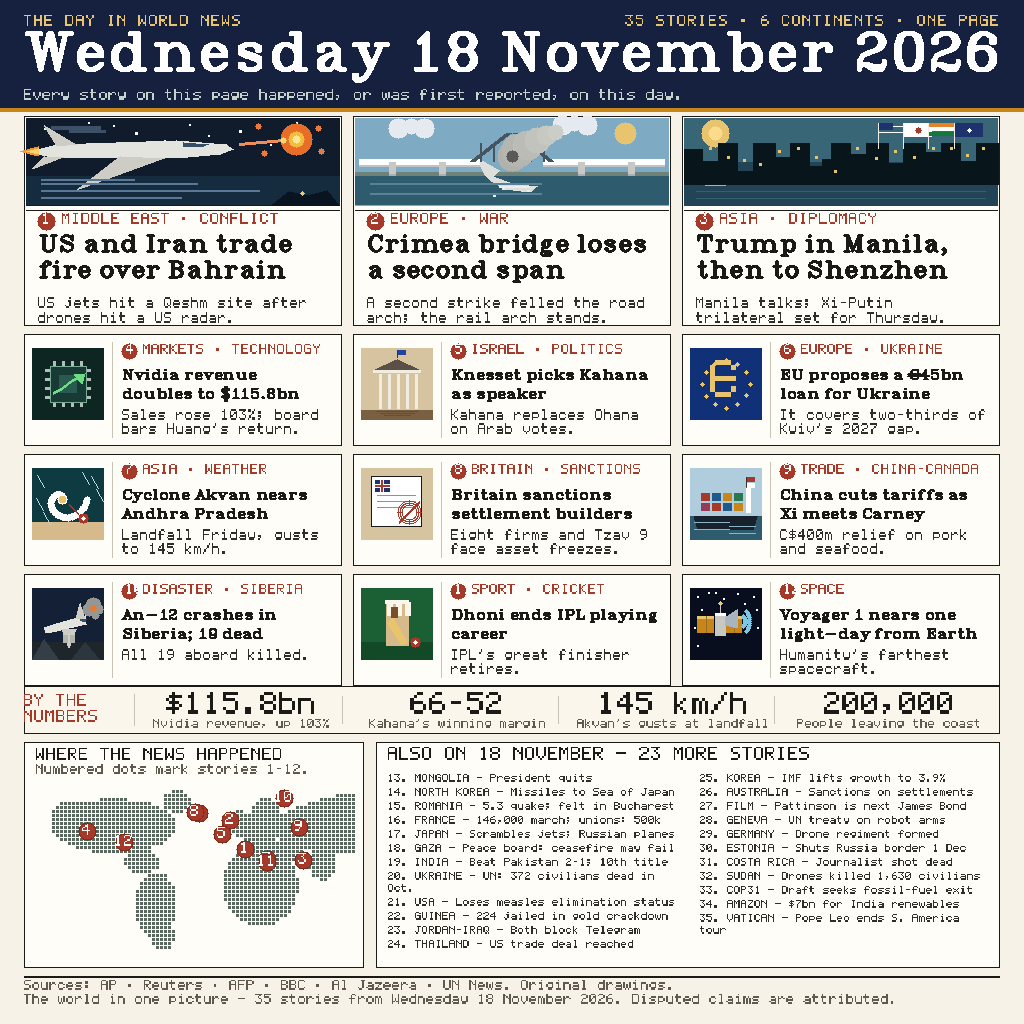
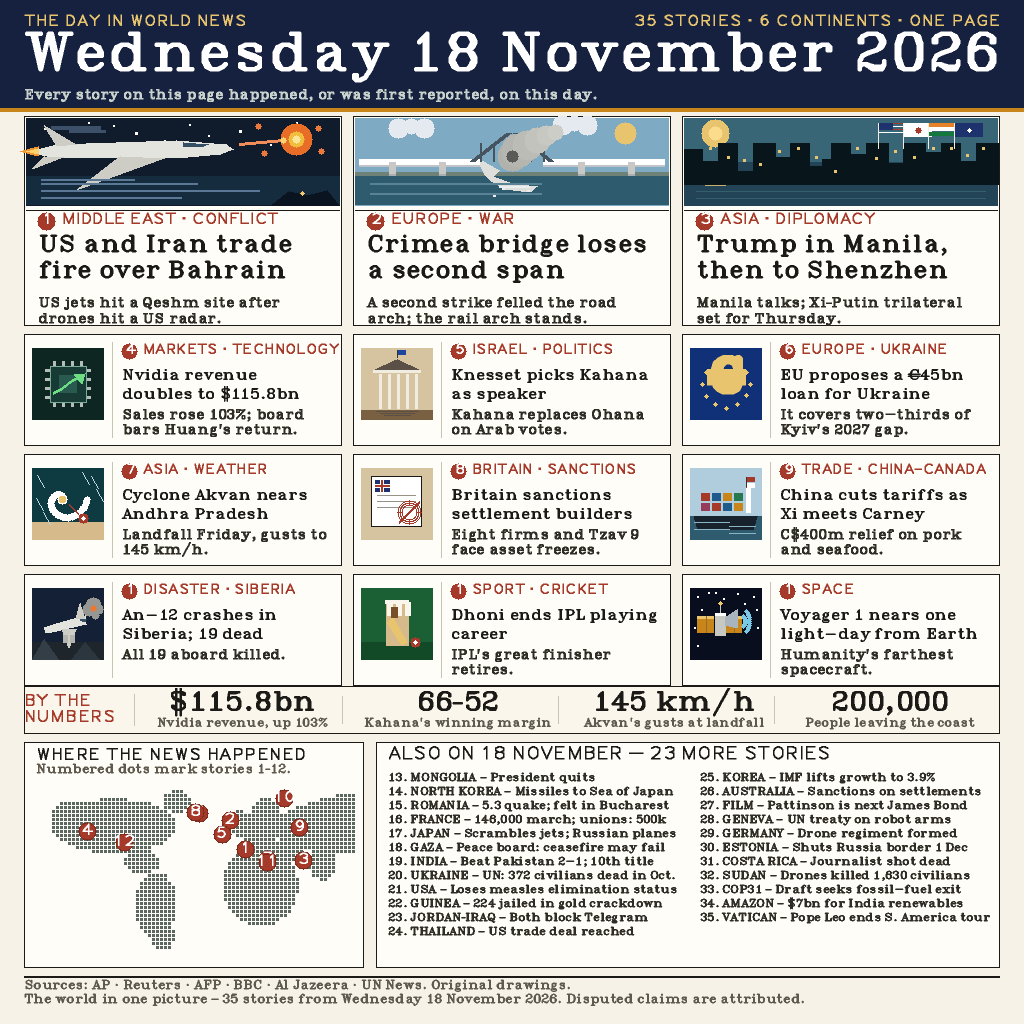
news-image-20261118: neat poster rebuild to reference standard
All text now uses the smooth Hershey vector fonts (no more 5x7 bitmap
anywhere): Complex Roman serif for body/ALSO/footer/captions/figures,
Simplex sans for all-caps kickers/labels/numbers. Proper box-filter
anti-aliasing (coverage = tot//(SS*SS)) so strokes have smooth grey
edges instead of hard binary edges. Body bumped to cap 11, ALSO to cap 9.
Facts, layout, art and palette unchanged; stdlib-only, deterministic.

diff --git a/main.py b/main.py
@@ -561,7 +561,7 @@ class VecFont:
                     row0 = (yy * SS + dy) * sw + xx * SS
                     tot += buf[row0] + buf[row0 + 1]
                 if tot:
-                    runs.append((xx, yy, min(255, tot * 64)))
+                    runs.append((xx, yy, tot // (SS * SS)))
         out = (W, H, -1, int(round(ytop)) - 1, runs, (r - l) * scale)
         self.cache[key] = out
         return out
@@ -743,8 +743,8 @@ def draw_pin(cv, px, py, n):
     cv.circle(px, py, 9, BRICK)
     cv.circle(px, py, 9, BRICK_DK, filled=False)
     s = str(n)
-    w = SERIF.text_w(s, 11, 1.5)
-    draw_text(cv, px - w / 2, py + 4, s, 11, WHITE, SERIF, pen_frac=0.09)
+    w = VEC_SANS.text_w(s, 11, 1.5)
+    draw_text(cv, px - w / 2, py + 4, s, 11, WHITE, VEC_SANS, pen_frac=0.16)
 
 # ---------------------------------------------------------------- illustrations
 # Every art function draws into the box (x, y, w, h) using relative
@@ -1029,9 +1029,9 @@ def art_eu(cv, x, y, w, h):
         cv.disc(sx, sy, max(2, int(min(w, h) * 0.035)), GOLD_LT)
     # big euro sign, centred, bold
     cap = int(min(w, h) * 0.52)
-    tw = SERIF.text_w("\u20ac", cap, max(1.0, cap * 0.26))
+    tw = VEC.text_w("\u20ac", cap, max(1.0, cap * 0.26))
     draw_text(cv, cx - tw / 2, cy + cap * 0.36, "\u20ac", cap, GOLD_LT,
-              SERIF, pen_frac=0.26)
+              VEC, pen_frac=0.26)
 
 def art_cyclone(cv, x, y, w, h):
     """Cyclone Akvan: tight spiral bands over a coastline, landfall dot."""
@@ -1327,10 +1327,10 @@ def build():
     # masthead
     cv.fill(0, 0, W, 108, NAVY)
     draw_text(cv, 24, 26, "THE DAY IN WORLD NEWS", 11, GOLD_LT,
-              SERIF, pen_frac=0.09, tracking=1.0)
+              VEC_SANS, pen_frac=0.16, tracking=1.0)
     right = "35 STORIES \u00b7 6 CONTINENTS \u00b7 ONE PAGE"
-    draw_text(cv, W - 24 - SERIF.text_w(right, 11, 1.8, 1.0), 26, right, 11,
-              GOLD_LT, SERIF, pen_frac=0.09, tracking=1.0)
+    draw_text(cv, W - 24 - VEC_SANS.text_w(right, 11, 1.8, 1.0), 26, right, 11,
+              GOLD_LT, VEC_SANS, pen_frac=0.16, tracking=1.0)
     mast = "Wednesday 18 November 2026"
     mast_w = VEC.text_w(mast, 44, 4.8, 0.0)
     mast_tr = (976 - mast_w) / max(1, len(mast) - 1)
@@ -1338,7 +1338,7 @@ def build():
               tracking=mast_tr)
     draw_text(cv, 24, 100,
               "Every story on this page happened, or was first reported, on this day.",
-              11, (200, 210, 205), SERIF, pen_frac=0.09)
+              11, (200, 210, 205), VEC, pen_frac=0.13)
     cv.fill(0, 108, W, 4, GOLD)
 
     # hero row: three big illustrated stories (116-326)
@@ -1353,14 +1353,14 @@ def build():
         tx = hx + 14
         ty = hy + 108
         cv.circle(tx + 8, ty - 3, 9, BRICK)
-        draw_text(cv, tx + 4, ty, str(s["n"]), 11, WHITE, SERIF, pen_frac=0.09)
-        draw_text(cv, tx + 24, ty, s["kicker"], 11, BRICK, SERIF,
-                  pen_frac=0.09, tracking=0.5)
+        draw_text(cv, tx + 4, ty, str(s["n"]), 11, WHITE, VEC_SANS, pen_frac=0.16)
+        draw_text(cv, tx + 24, ty, s["kicker"], 11, BRICK, VEC_SANS,
+                  pen_frac=0.16, tracking=0.5)
         hl = wrap(VEC, s["headline"], hw - 28, 19, 2.1)[:2]
         yy = draw_para(cv, tx, ty + 30, hl, 19, INK, 26, VEC, pen_frac=0.11)
-        bl = wrap(SERIF, s["body"], hw - 28, 10.5, 1.6)[:2]
-        draw_para(cv, tx, yy + 2, bl, 10.5, (48, 44, 38), 15, SERIF,
-                  pen_frac=0.09)
+        bl = wrap(VEC, s["body"], hw - 28, 11, 1.6)[:2]
+        draw_para(cv, tx, yy + 2, bl, 11, (48, 44, 38), 16, VEC,
+                  pen_frac=0.14)
 
     # small rows: nine stories, big icon left, text right (334-678)
     sw, sh = 318, 112
@@ -1374,22 +1374,22 @@ def build():
         tx = sx + 98
         ty = sy + 20
         cv.circle(tx + 7, ty - 3, 8, BRICK)
-        draw_text(cv, tx + 4, ty, str(s["n"]), 10, WHITE, SERIF, pen_frac=0.09)
-        draw_text(cv, tx + 21, ty, s["kicker"], 10, BRICK, SERIF,
-                  pen_frac=0.09, tracking=0.4)
+        draw_text(cv, tx + 4, ty, str(s["n"]), 10, WHITE, VEC_SANS, pen_frac=0.16)
+        draw_text(cv, tx + 21, ty, s["kicker"], 10, BRICK, VEC_SANS,
+                  pen_frac=0.16, tracking=0.4)
         hl = wrap(VEC, s["headline"], sw - 98 - 12, 12, 1.4)[:2]
         yy = draw_para(cv, tx, ty + 28, hl, 12, INK, 19, VEC, pen_frac=0.11)
-        bl = wrap(SERIF, s["body"], sw - 98 - 12, 10.5, 1.6)[:2]
-        draw_para(cv, tx, yy, bl, 10.5, (48, 44, 38), 14, SERIF,
-                  pen_frac=0.09)
+        bl = wrap(VEC, s["body"], sw - 98 - 12, 11, 1.6)[:2]
+        draw_para(cv, tx, yy, bl, 11, (48, 44, 38), 15, VEC,
+                  pen_frac=0.14)
 
     # by the numbers strip (686-734): figures centred in their columns
     ny = 686
     cv.fill(24, ny, 976, 48, CREAM)
     cv.rect(24, ny, 976, 48, INK, lw=1)
-    draw_text(cv, 24, ny + 20, "BY THE", 12, BRICK, SERIF, pen_frac=0.09,
+    draw_text(cv, 24, ny + 20, "BY THE", 12, BRICK, VEC_SANS, pen_frac=0.16,
               tracking=0.5)
-    draw_text(cv, 24, ny + 36, "NUMBERS", 12, BRICK, SERIF, pen_frac=0.09,
+    draw_text(cv, 24, ny + 36, "NUMBERS", 12, BRICK, VEC_SANS, pen_frac=0.16,
               tracking=0.5)
     cv.vline(24 + 110, ny + 8, 32, (200, 195, 180))
     col_w = (976 - 110) // 4
@@ -1397,18 +1397,18 @@ def build():
         ccx = 24 + 110 + i * col_w + col_w // 2
         if i:
             cv.vline(24 + 110 + i * col_w - 8, ny + 10, 28, (200, 195, 180))
-        draw_text_c(cv, ccx, ny + 28, fig, 22, INK, SERIF, pen_frac=0.09)
-        draw_text_c(cv, ccx, ny + 42, cap, 9, MUTED, SERIF, pen_frac=0.09)
+        draw_text_c(cv, ccx, ny + 28, fig, 22, INK, VEC, pen_frac=0.12)
+        draw_text_c(cv, ccx, ny + 42, cap, 9.5, MUTED, VEC, pen_frac=0.14)
 
     # bottom band: map + also list (742-968)
     by = 742
     bh = 226
     cv.fill(24, by, 340, bh, CARD)
     cv.rect(24, by, 340, bh, INK, lw=1)
-    draw_text(cv, 36, by + 18, "WHERE THE NEWS HAPPENED", 12, INK, SERIF,
-              pen_frac=0.09, tracking=0.5)
+    draw_text(cv, 36, by + 18, "WHERE THE NEWS HAPPENED", 12, INK, VEC_SANS,
+              pen_frac=0.16, tracking=0.5)
     draw_text(cv, 36, by + 32, "Numbered dots mark stories 1\u201312.",
-              10, MUTED, SERIF, pen_frac=0.09)
+              10, MUTED, VEC, pen_frac=0.14)
     draw_map(cv, 36, by + 40, cols=80, rows=44, sx=4, sy=4, dot=3)
     pins = [(s["n"], s["pin"]) for s in HERO + SMALL]
     # nudge the two Middle East pins apart so their discs don't overlap
@@ -1421,26 +1421,26 @@ def build():
     cv.fill(376, by, 624, bh, CARD)
     cv.rect(376, by, 624, bh, INK, lw=1)
     draw_text(cv, 388, by + 18, "ALSO ON 18 NOVEMBER \u2014 23 MORE STORIES",
-              13, INK, SERIF, pen_frac=0.09, tracking=0.3)
+              13, INK, VEC_SANS, pen_frac=0.15, tracking=0.3)
     cols = [ALSO[:12], ALSO[12:]]
     for ci, items in enumerate(cols):
         cx = 388 + ci * 312
         yy = by + 40
         for n, place, text in items:
             s = "%d. %s \u2014 %s" % (n, place, text)
-            lines = wrap(SERIF, s, 292, 8, 1.4)[:2]
-            yy = draw_para(cv, cx, yy, lines, 8, (48, 44, 38), 12, SERIF,
-                           pen_frac=0.09)
+            lines = wrap(VEC, s, 292, 9, 1.4)[:2]
+            yy = draw_para(cv, cx, yy, lines, 9, (48, 44, 38), 12, VEC,
+                           pen_frac=0.14)
             yy += 2
 
     # footer
     cv.fill(24, 976, 976, 2, INK)
     foot = ("Sources: AP \u00b7 Reuters \u00b7 AFP \u00b7 BBC \u00b7 Al Jazeera \u00b7 UN News. "
             "Original drawings.")
-    draw_text(cv, 24, 990, foot, 10, MUTED, SERIF, pen_frac=0.09)
+    draw_text(cv, 24, 990, foot, 10, MUTED, VEC, pen_frac=0.14)
     draw_text(cv, 24, 1004, "The world in one picture \u2014 35 stories from "
               "Wednesday 18 November 2026. Disputed claims are attributed.",
-              10, MUTED, SERIF, pen_frac=0.09)
+              10, MUTED, VEC, pen_frac=0.14)
     return cv
 
 def main():
